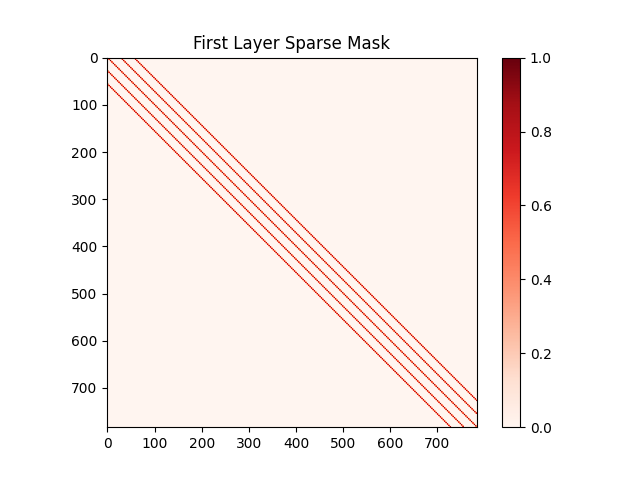
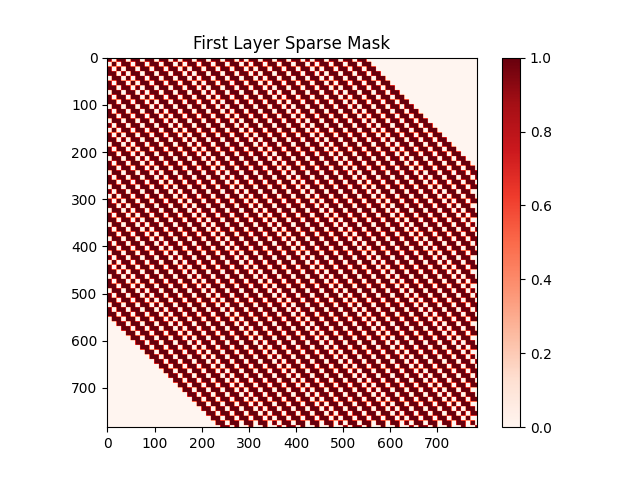
back up codes

diff --git a/src/layers.py b/src/layers.py
@@ -80,3 +80,67 @@ class ButterflyLinear(nn.Module):
         return 'in_features={}, out_features={}, bias={}'.format(
             self.in_features, self.out_features, self.bias is not None
         )
+        
+
+class ButterflyGlobalLinear(nn.Module):
+    r"""Applies a linear transformation to the incoming data: :math:`y = xA^T + b`
+    """
+    __constants__ = ['in_features', 'out_features']
+    in_features: int
+    out_features: int
+    weight: Tensor
+
+    def __init__(self, in_features: int, out_features: int, bias: bool = True, window_size: int = 6,
+                 stripes: int = 3, step=1, gtoken=1, block_size=None, device=None, dtype=None) -> None:
+        factory_kwargs = {'device': device, 'dtype': dtype}
+        super().__init__()
+        self.in_features = in_features
+        self.out_features = out_features
+        self.weight = Parameter(torch.empty((out_features, in_features), **factory_kwargs))
+
+        pseudo_mask_size = (min(in_features, out_features), max(in_features, out_features))
+        tmp_mask = torch.zeros(pseudo_mask_size)
+        stride = int(math.sqrt(pseudo_mask_size[0]))
+        d = math.ceil(pseudo_mask_size[1] / pseudo_mask_size[0])
+
+        for k in range(stripes):
+            patch_start = stride * k
+            for i in range(0, pseudo_mask_size[0], window_size):
+                tmp_mask[patch_start + i:patch_start + i + window_size, i * d: i * d + step * d * window_size] = 1.
+
+        for k in range(stripes):
+            patch_start = stride * k
+            for i in range(0, pseudo_mask_size[0], window_size):
+                tmp_mask[i: i + window_size, (i + patch_start) * d: (patch_start + i) * d + step * d * window_size] = 1.
+        tmp_mask = generate_mask(tmp_mask, block_size)
+        tmp_mask[:, :gtoken] = 1.
+        tmp_mask[:gtoken, :] = 1.
+
+        if in_features <= out_features:
+            self.register_buffer('sparse_mask', tmp_mask.t())
+        else:
+            self.register_buffer('sparse_mask', tmp_mask)
+
+        self.saving = torch.sum(generate_mask(tmp_mask))/(self.in_features*self.out_features)
+
+        if bias:
+            self.bias = Parameter(torch.empty(out_features, **factory_kwargs))
+        else:
+            self.register_parameter('bias', None)
+        self.reset_parameters()
+
+    def reset_parameters(self) -> None:
+        init.kaiming_uniform_(self.weight, a=math.sqrt(5))
+        self.weight.data = self.weight.data/math.sqrt(torch.sum(self.sparse_mask)/(self.in_features*self.out_features))
+        if self.bias is not None:
+            fan_in, _ = init._calculate_fan_in_and_fan_out(self.weight)
+            bound = 1 / math.sqrt(fan_in) if fan_in > 0 else 0
+            init.uniform_(self.bias, -bound, bound)
+
+    def forward(self, input: Tensor) -> Tensor:
+        return input @ ((self.sparse_mask*self.weight).t()) + self.bias
+
+    def extra_repr(self) -> str:
+        return 'in_features={}, out_features={}, bias={}'.format(
+            self.in_features, self.out_features, self.bias is not None
+        )

diff --git a/src/models.py b/src/models.py
@@ -1,18 +1,20 @@
 import torch.nn as nn
 import torch.nn.functional as F
 import torch
-from layers import ButterflyLinear
+from layers import ButterflyLinear, ButterflyGlobalLinear
 
 class ButterflyMlp(nn.Module):
     """ newMlp, similar to Mlp layers in MLP-Mixer but with extra gelu act and low-rank
     """
-    def __init__(self, in_features, hidden_features=None, out_features=None, act_layer=nn.GELU, drop=0., window_size=3, step=1, stripes_1=3, stripes_2=1, block_size=None):
+    def __init__(self, in_features, hidden_features=None, out_features=None,
+                 act_layer=nn.GELU, drop=0.,
+                 window_size=10, step=1, stripes_1=20, stripes_2=10, block_size=(10,10)):
         super().__init__()
         out_features = out_features or in_features
         hidden_features = hidden_features or in_features
-        self.fc1 = ButterflyLinear(784, 784, bias=True, window_size=window_size, stripes=stripes_1, step=step, block_size=block_size)
-        self.fc2 = ButterflyLinear(784, 128, bias=True, window_size=window_size, stripes=stripes_1, step=step, block_size=block_size)
-        self.fc3 = ButterflyLinear(128, 10, bias=True, window_size=window_size, stripes=stripes_2, step=step, block_size=block_size)
+        self.fc1 = ButterflyGlobalLinear(784, 784, bias=True, window_size=window_size, stripes=stripes_1, step=step, block_size=block_size)
+        self.fc2 = ButterflyGlobalLinear(784, 128, bias=True, window_size=window_size, stripes=stripes_1, step=step, block_size=block_size)
+        self.fc3 = ButterflyGlobalLinear(128, 10, bias=True, window_size=window_size, stripes=stripes_2, step=step, block_size=block_size)
         self.act = act_layer()
         
     def forward(self, x):
